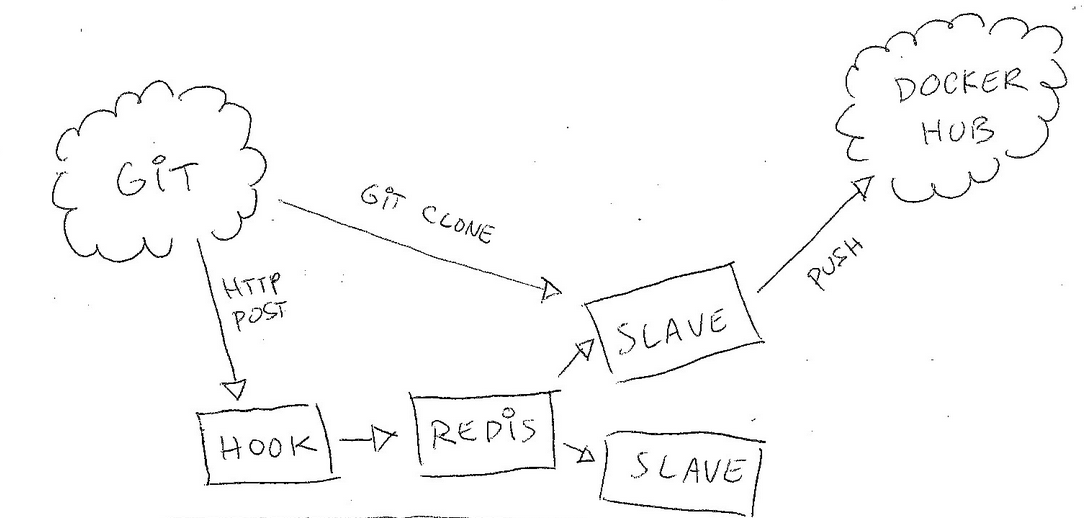
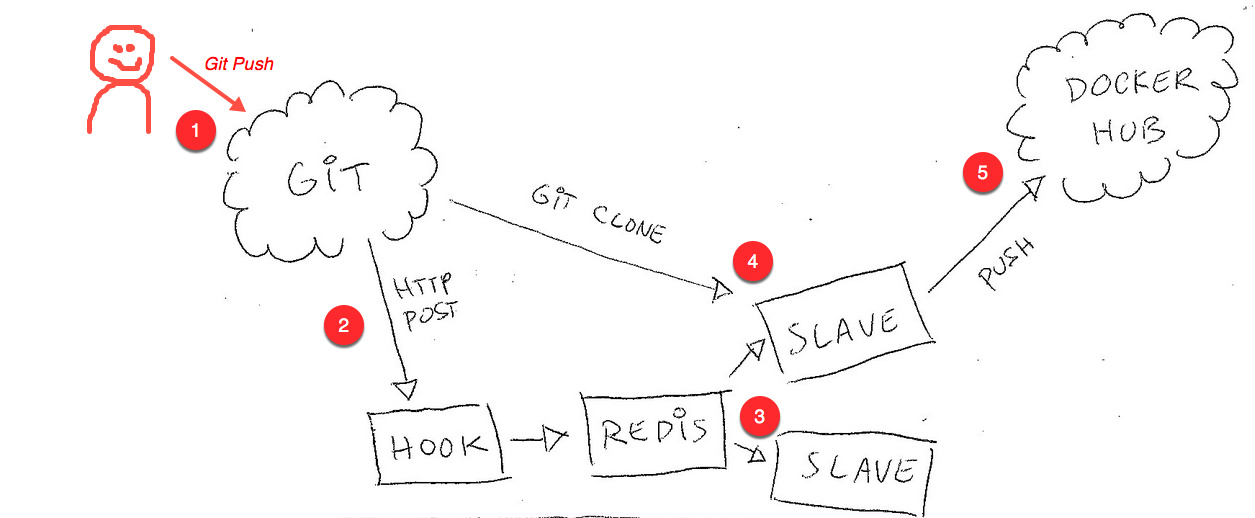
doc update

diff --git a/docs/ci.rst b/docs/ci.rst
@@ -47,13 +47,17 @@ The CI backend may run multiple slaves each with its own capabilities. You can p
 hook URL by concatenating them (separate with plus signs). For instance if you need a slave that allows you to use
 JDK8 and SBT you could set your web hook to:
 
-.. core:: bash
+.. code:: bash
 
-  https://ci-backend/JDK8+SBT
+    https://ci-backend/JDK8+SBT
 
 In that case the backend will attempt to find a suitable slave by matching the first one offering all the requested
 hints. Specifying hints and not being to match a slave will result in a failure via a HTTP 403.  Not specifying any
 hints (e.g basic web hook URL with no path) will assign the build to a random slave.
+
+.. note::
+    Each slave declares its capabilities via its *cluster name*. For instance if you spin up a slave container
+    called *slave-foo-bar* it will register itself has having capabilities *foo* and *bar*.
 
 Defining your build
 ___________________
@@ -95,7 +99,7 @@ Additionally your shell snippets will be provided a few useful environment varia
  - $MESSAGE : git commit message
  - $TAG : repository name
  - $TIMESTAMP : git push timestamp
- - $LOG : current build log as a serialized JSON_ array
+ - $LOG : current build log as a serialized JSON_ array (abridged version)
  - $OK : "true" if the build is still going on smoothly, "false" if it failed earlier
 
 You can also define your own environment variables in a given build step by using the optional **env** attribute. It
@@ -143,16 +147,16 @@ Build status
 ************
 
 You can always query the backend to check what your Git_ repository build status is. Just **HTTP GET /status** on
-the git hook target. For instance let's pretend you wish to check the status for the *cloudplatform-compute/test*
+the git hook target. For instance let's pretend you wish to check the status for the *paugamo/test*
 repository:
 
 .. code:: bash
 
-    $ curl -H "Accept: text/raw" http://10.50.85.97:5000/status/cloudplatform-compute/test
+    $ curl -H "Accept: text/raw" http://ci-backend/status/paugamo/test
       - commit 44d27e9096 (CSE-129 updated Dockerfile to fix the build)
-      - add a label, build and push the resulting docker image to autodeskcloud/test
+      - add a label, build and push the resulting docker image to paugamo/test
       [passed] echo "$MESSAGE ($COMMIT_SHORT)" > BUILD... (0 seconds)
-      [passed] tools push -t latest autodeskcloud/test -d... (27 seconds)
+      [passed] tools push -t latest paugamo/test -d... (27 seconds)
       - notify hipchat
       [passed] if [ -n "$OK" ] ; then   tools hipchat -c green 883987 "build pa... (0 seconds)
       [passed] tools jenkins view/CSE/job/Test... (1 seconds)
@@ -190,6 +194,16 @@ You can use the Git_ commit hash to version your image (using it as a tag):
     step: build and push a versioned test image
     shell:
     - tools push -t $COMMIT_SHORT paugamo/test
+
+
+You want to use Quay_ as your target registry ? No problemo:
+
+.. code:: YAML
+
+    step: build and push a to quay
+    shell:
+    - tools push quay.io/paugamo/test
+
 
 Hipchat
 *******
@@ -236,6 +250,7 @@ of a build via the *Test* job nested under the *CI-Tests* folder you could do:
 .. _Ochopod: https://github.com/autodesk-cloud/ochopod
 .. _Ochothon: https://github.com/autodesk-cloud/ochothon
 .. _Python: https://www.python.org/
+.. _Quay: https://quay.io/
 .. _SBT: http://www.scala-sbt.org/
 .. _Travis: https://travis-ci.org/
 .. _YAML: http://yaml.org/

diff --git a/docs/index.rst b/docs/index.rst
@@ -8,18 +8,19 @@ ______________
 This project is a simple CI/CD backend built on top of the Ochopod_ mini-PaaS. It allows you to build your images
 straight from Git_ using a flow similar to Travis_.
 
+.. figure:: png/ci-overall.png
+   :align: center
+   :width: 100%
+
 The backend itself is made of multiple Docker_ container running Ochopod_ and living into a Mesos_ cluster. It is
 articulated around a *hook* container that acts as a Git_ web-hook receiver and forwards the commit payload to
 a *redis* queue. A set of *slave* containers will pick those notifications, clone or update the code and execute a
 bunch of shell commands defined in the repository itself. Usual integration steps such as unit-testing, compilation,
 packaging, docker push and so on can thus be all nicely folded into the repository itself.
 
-.. figure:: png/ci-overall.png
-   :align: center
-   :width: 100%
-
-.. warning::
-    This project is *not* a replacement for CI tools such as Jenkins_ but rather a specialized companion service.
+.. note::
+    This project is *not* a replacement for CI tools such as Jenkins_ but rather a specialized companion service that
+    can be easily customized.
 
 Contents
 ________
